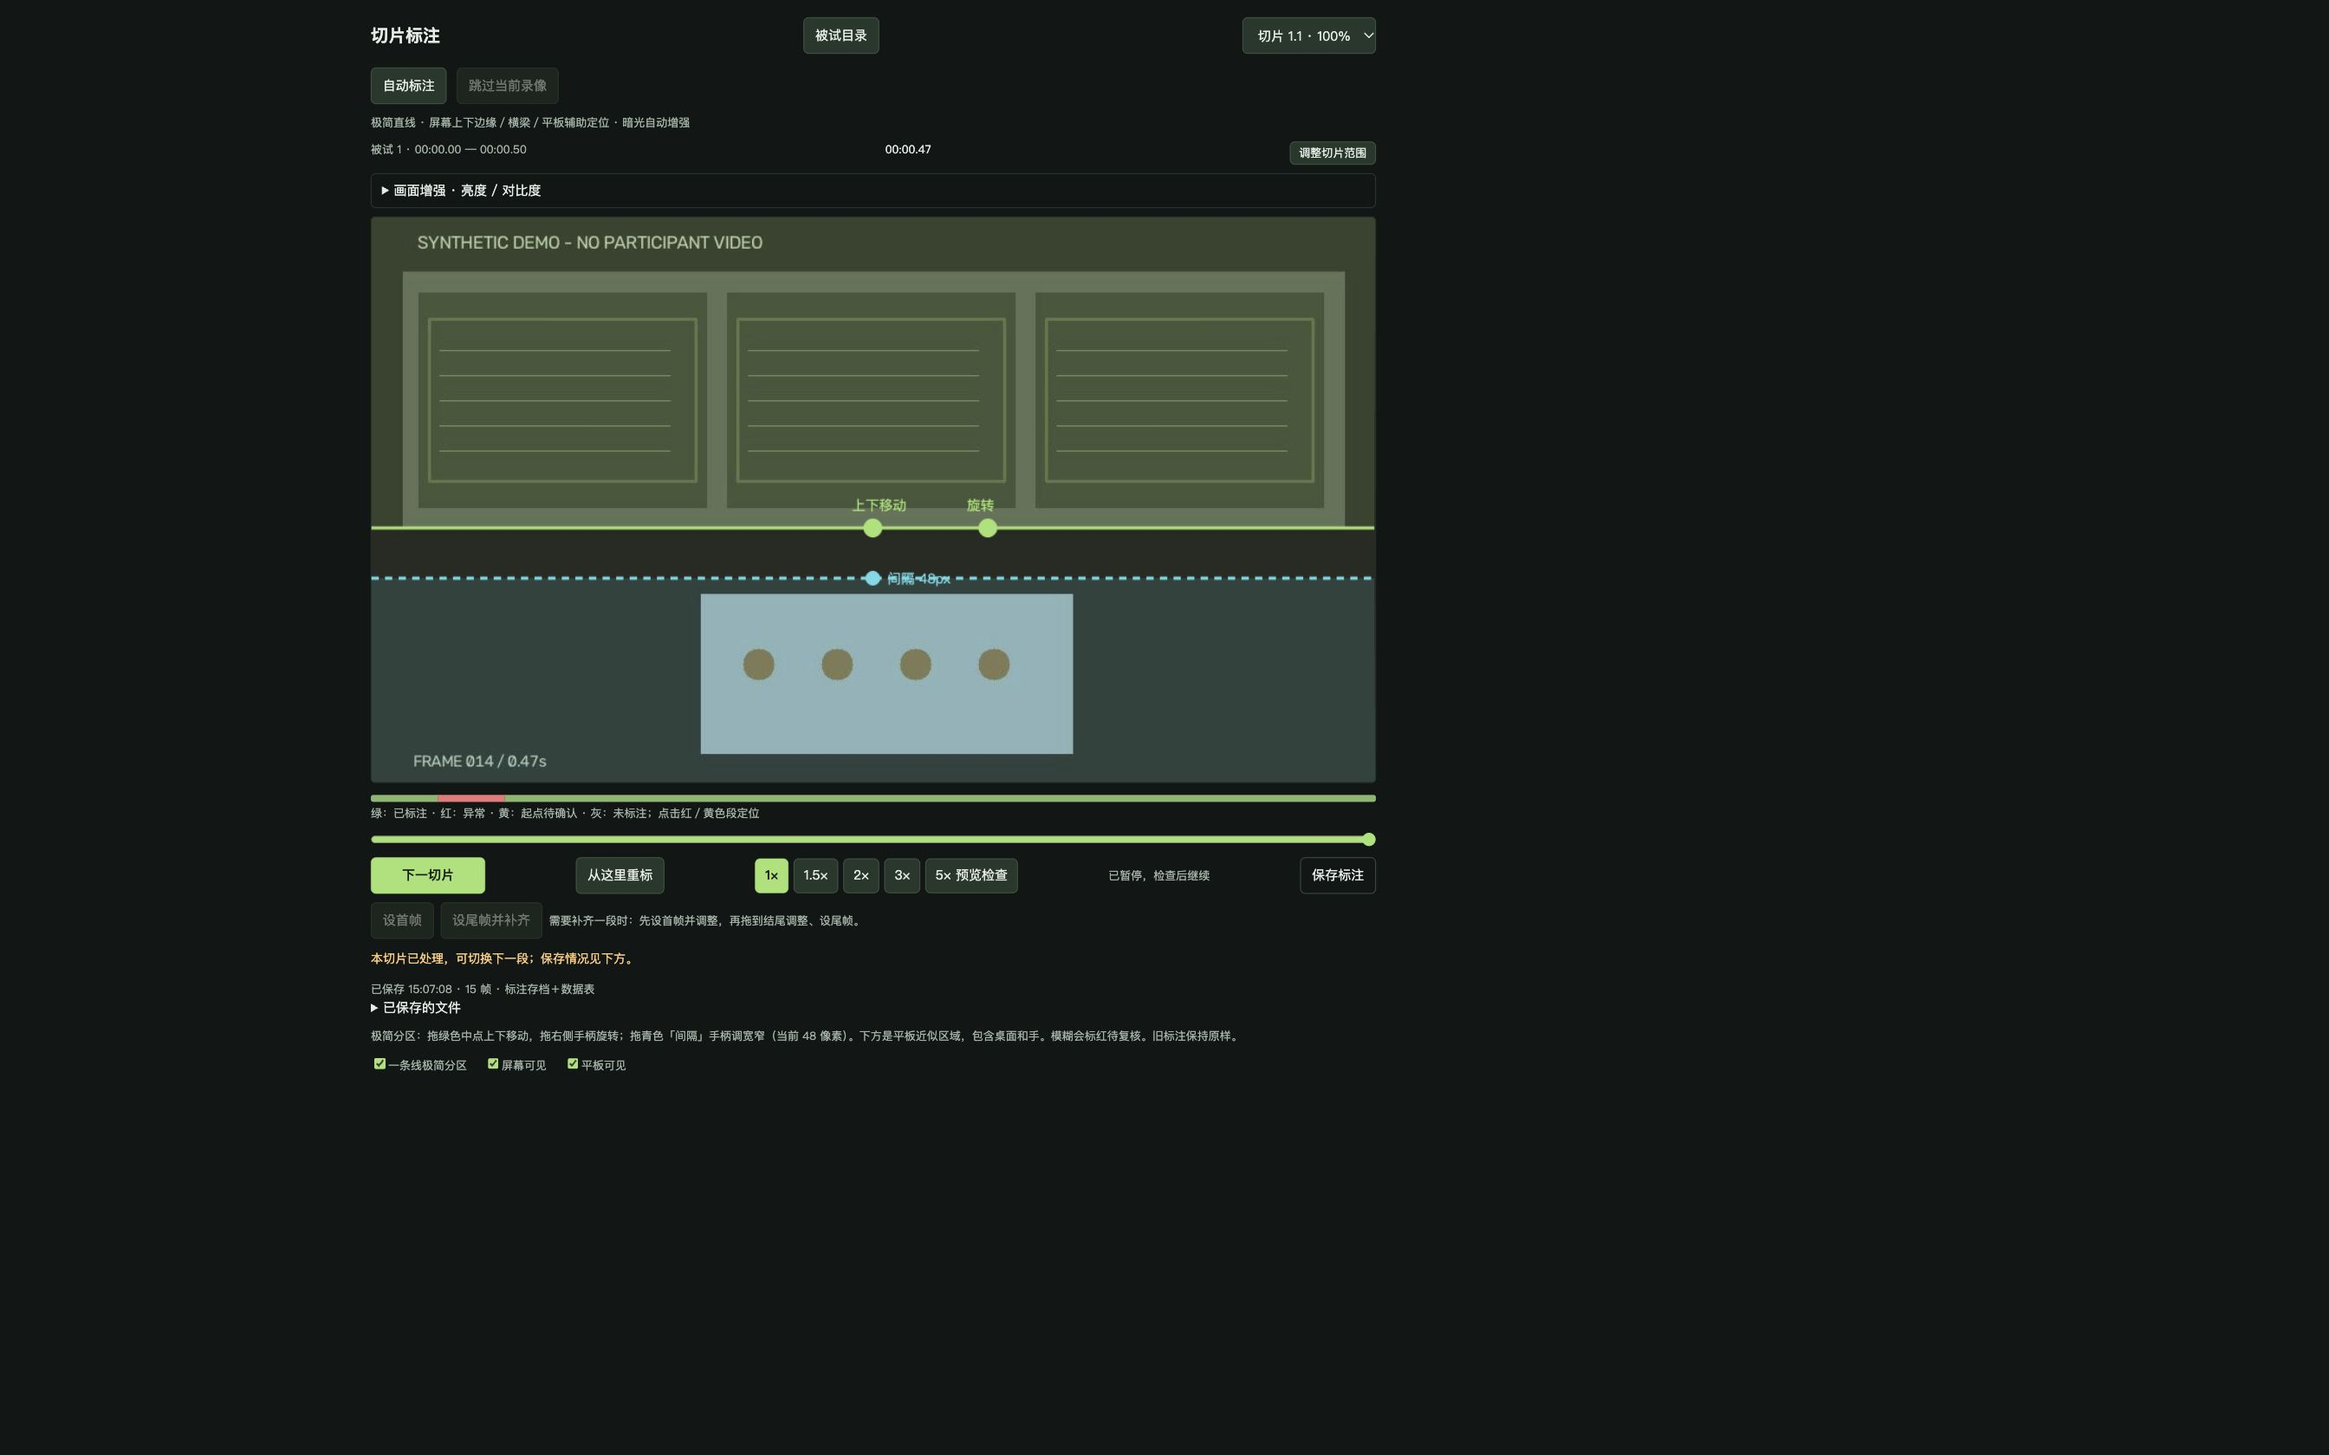
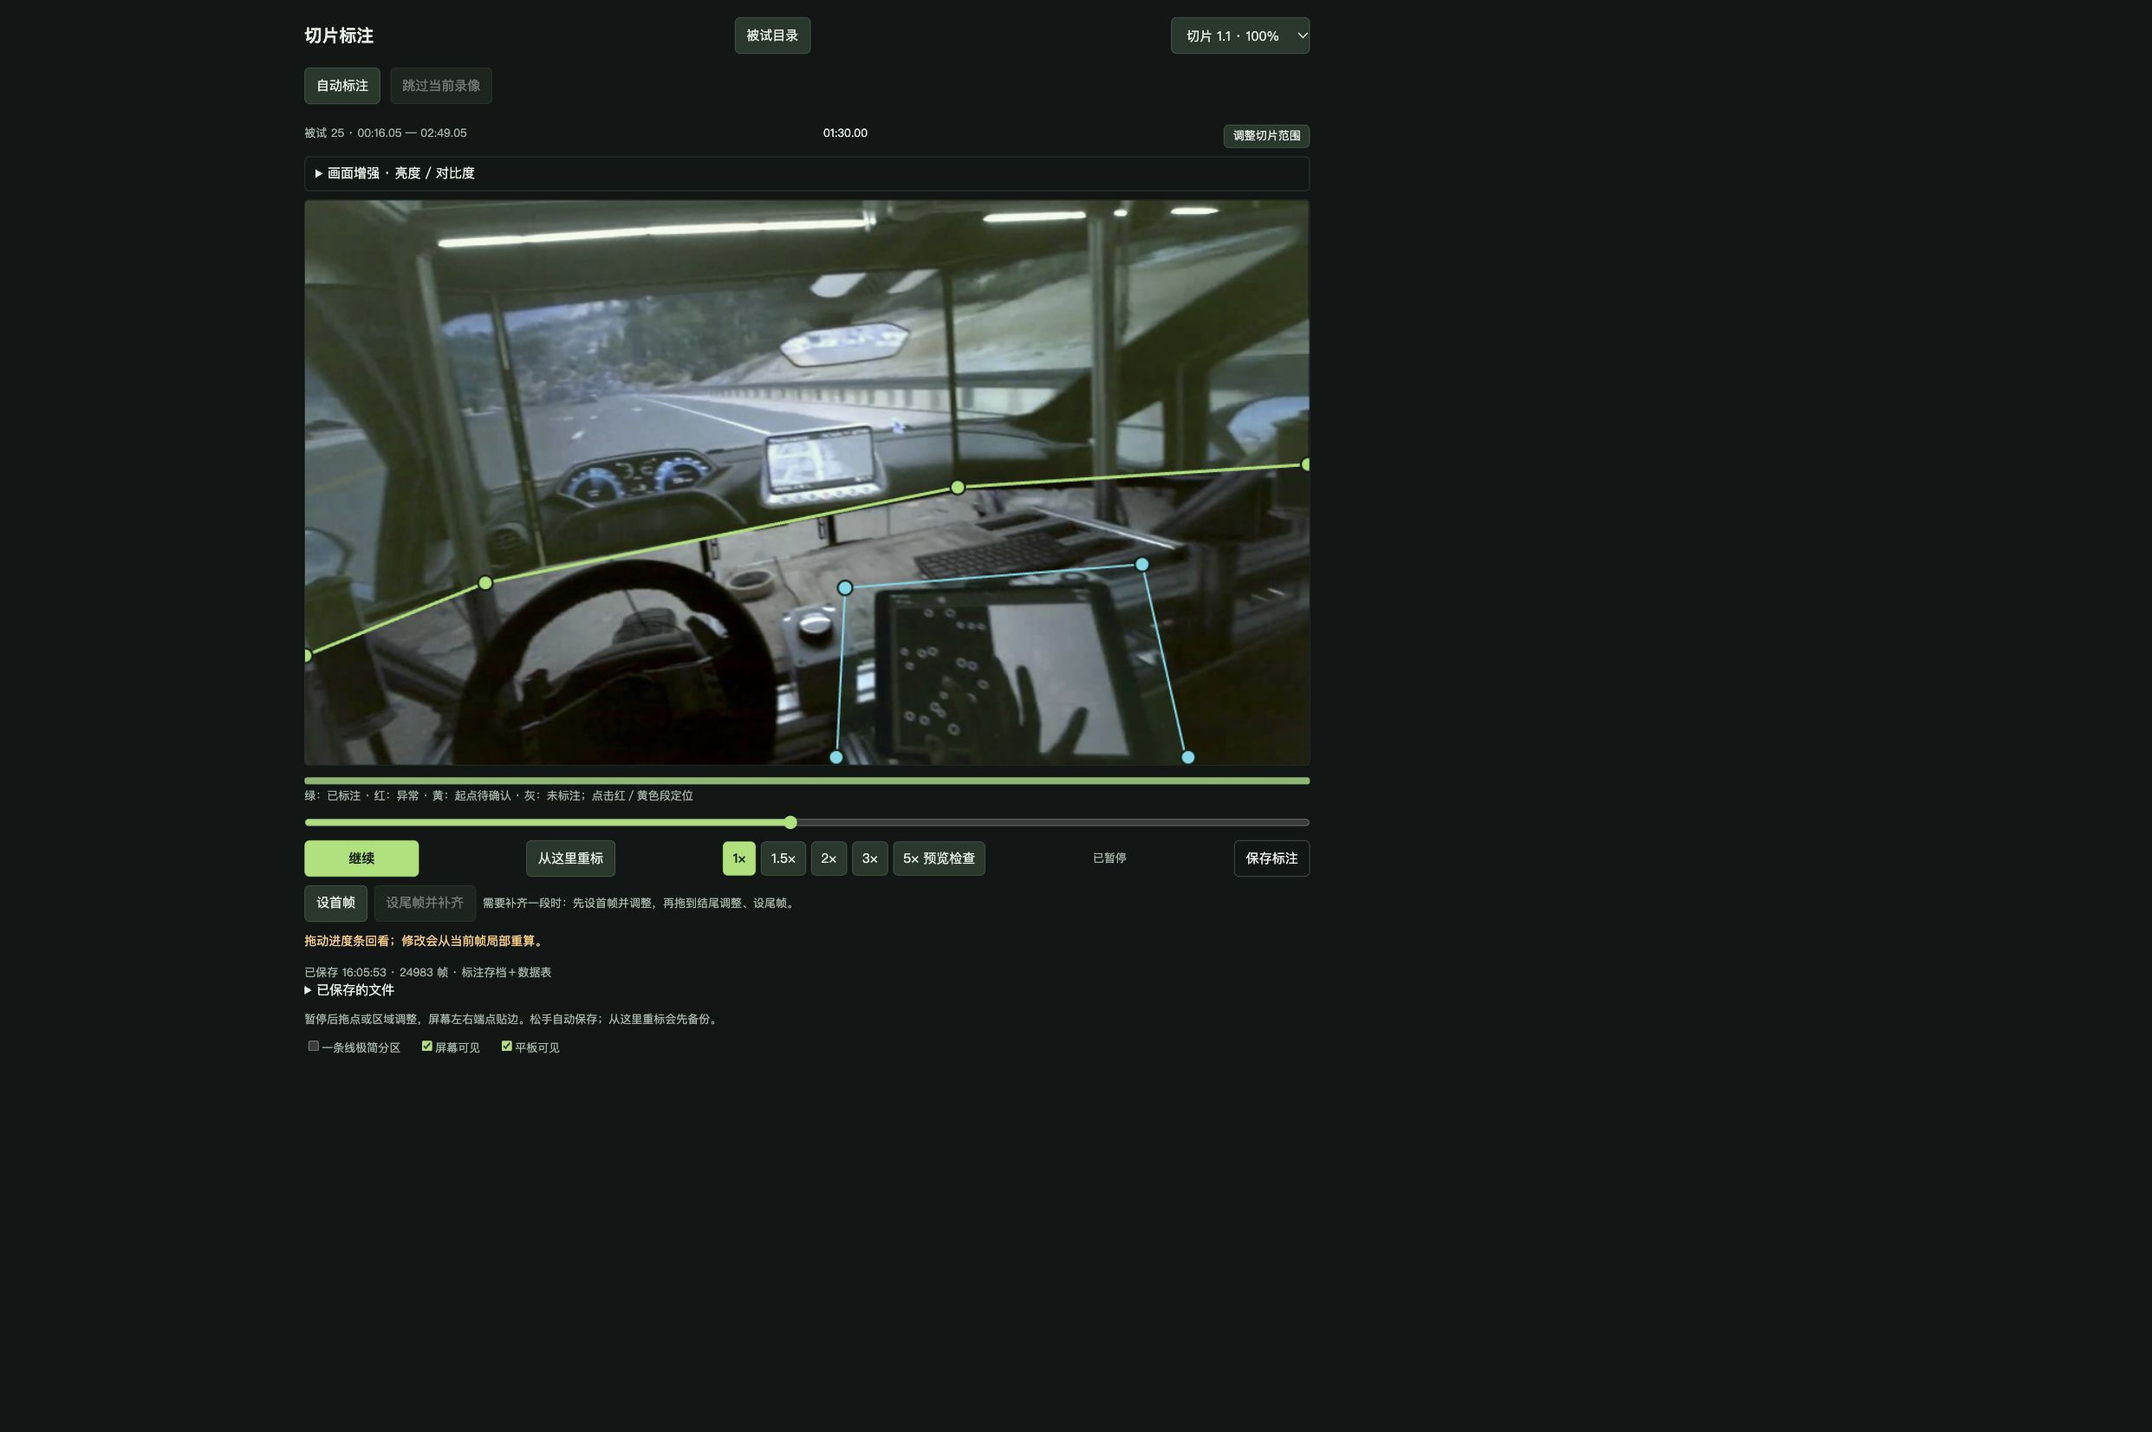
Use real research footage in AOI project screenshots

Changed region(s): [[0.124, 0.0, 0.6202, 0.7405], [0.3721, 0.7096, 0.5272, 0.7405], [0.3411, 0.0, 0.3721, 0.0309]]

diff --git a/index.html b/index.html
@@ -1,1 +1,1 @@
-<!DOCTYPE html><html lang="zh-CN"><head><meta charset="utf-8"><meta name="viewport" content="width=device-width,initial-scale=1"><title>眼动 AOI 切片标注工具 · 庞淇文</title><link rel="stylesheet" href="style.css"><style>.case{max-width:960px;margin:50px auto 80px}.case h1{font:600 42px "Songti SC",serif}.case h2{margin-top:44px;font-size:28px}.case p,.case li{color:#58665b;font-size:15px}figure{margin:30px 0}figure img{width:100%;border:1px solid #d6ddd0;border-radius:8px}figcaption{font-size:12px;color:#68746b;margin-top:8px}.case-table{border-collapse:collapse;width:100%;font-size:13px}.case-table td,.case-table th{border-bottom:1px solid #d6ddd0;padding:12px;text-align:left}code{font-size:13px;background:#e1e8db;padding:2px 5px}@media(max-width:650px){.case h1{font-size:30px}}</style></head><body><div class="shell"><header><a class="brand" href="https://github.com/capybarra1">庞淇文<span>PROJECT CASE</span></a><nav><a href="https://github.com/capybarra1/eye-tracking-aoi">项目仓库 ↗</a><a href="https://github.com/capybarra1">GitHub 主页 ↗</a></nav></header><main class="case"><h1>眼动 AOI 切片标注工具</h1><div class="note">支持动态区域跟踪、人工关键帧修复、切片调整和标注导出。</div><h2>项目概览</h2><p>头戴式眼动视频中的屏幕和平板会随视角移动，反光、遮挡、模糊和旋转增加了逐帧标注的工作量。我围绕实际研究任务开发本地 AOI 标注工具，将切片处理、区域跟踪、异常复核和数据导出放到同一工作流程中。</p><h2>我的职责</h2><p>我定义切片、区域、关键帧、复核与导出流程，使用 AI 编程工具辅助实现，并根据实际标注中的失跟、旋转、缓存和切片边界问题持续迭代。最近版本加入直线分区、首尾关键帧修复、被试目录与进度、切片范围调整、存档和数据表导出。</p><ul><li>将标注任务拆为切片，保留当前进度、区域状态和异常段，支持中断后继续处理。</li><li>设计人工首尾关键帧修复与保存前预览，缩小需要重新标注的范围。</li><li>支持切片起止调整、版本备份与范围导出，保持修改记录可核对。</li><li>管理跨录像处理与缓存上限，减少预处理对本地资源的占用。</li></ul><figure><img src="assets/aoi-annotation.jpg" alt="AOI 标注界面：合成视频上的跟踪与时间轴"><figcaption>AOI 标注界面：合成视频上的跟踪与时间轴</figcaption></figure><h2>标注与复核流程</h2><p>切片时间与起始区域 → 本地跟踪 → 异常标记 → 人工关键帧修复 → 范围保存与版本备份 → 导出核对。</p><figure><img src="assets/aoi-flow.svg" alt="标注、修复与导出流程"><figcaption>标注、修复与导出流程</figcaption></figure><h2>关键设计与迭代</h2><p><strong>区分处理进度和确认状态。</strong> 时间轴保留异常段、未确认起点和缺失切片，复核人员可以定位需要介入的位置，避免计算结束后直接使用错误区域。</p><p><strong>局部修复保留既有工作。</strong> 首尾关键帧先生成草稿和预览，保存前备份；修复范围外的标注和人工关键帧保留，减少重复操作。</p><p><strong>切片范围可调整。</strong> 标注中发现边界不合适时，可预览整段录像并修改起止。移出范围的记录保留在本地，当前导出按新范围计算。</p><figure><img src="assets/aoi-timing.jpg" alt="切片起止调整与逐帧预览"><figcaption>切片起止调整与逐帧预览</figcaption></figure><p><strong>区域简化与统计口径同步。</strong> 直线分区适用于快速区分屏幕和下方近似区域。下方可能包含桌面与手，使用这类标注时需按对应 AOI 定义解释指标。</p><h2>项目交付与验证</h2><p>交付本地标注程序、合成视频演示、标注存档与数据表导出入口。63 项选定检查通过，覆盖暂停恢复、逐帧预览、直线几何、切片时间、人工关键帧和缓存；合成场景下完成切片跟踪、保存与范围编辑检查。</p><h2>演示与运行</h2><p>截图由实际标注界面运行生成，背景为程序绘制的屏幕和平板示意。演示使用合成视频，原始研究录像、参与者资料和眼动数据不包含在仓库中。</p><p>CPU/OpenCV 核心流程可本地运行，可选学习模型与预处理默认关闭。真实视频精度、学习模型恢复和跨录像批量效果需在对应研究条件下评估。</p><p><a href="https://github.com/capybarra1/eye-tracking-aoi/blob/main/docs/quickstart.md">启动说明</a> · <a href="https://github.com/capybarra1/eye-tracking-aoi/blob/main/VERIFICATION.md">验证记录</a></p></main><footer>庞淇文 · eye-tracking-aoi</footer></div></body></html>
+<!DOCTYPE html><html lang="zh-CN"><head><meta charset="utf-8"><meta name="viewport" content="width=device-width,initial-scale=1"><title>眼动 AOI 切片标注工具 · 庞淇文</title><link rel="stylesheet" href="style.css"><style>.case{max-width:960px;margin:50px auto 80px}.case h1{font:600 42px "Songti SC",serif}.case h2{margin-top:44px;font-size:28px}.case p,.case li{color:#58665b;font-size:15px}figure{margin:30px 0}figure img{width:100%;border:1px solid #d6ddd0;border-radius:8px}figcaption{font-size:12px;color:#68746b;margin-top:8px}.case-table{border-collapse:collapse;width:100%;font-size:13px}.case-table td,.case-table th{border-bottom:1px solid #d6ddd0;padding:12px;text-align:left}code{font-size:13px;background:#e1e8db;padding:2px 5px}@media(max-width:650px){.case h1{font-size:30px}}</style></head><body><div class="shell"><header><a class="brand" href="https://github.com/capybarra1">庞淇文<span>PROJECT CASE</span></a><nav><a href="https://github.com/capybarra1/eye-tracking-aoi">项目仓库 ↗</a><a href="https://github.com/capybarra1">GitHub 主页 ↗</a></nav></header><main class="case"><h1>眼动 AOI 切片标注工具</h1><div class="note">支持动态区域跟踪、人工关键帧修复、切片调整和标注导出。</div><h2>项目概览</h2><p>头戴式眼动视频中的屏幕和平板会随视角移动，反光、遮挡、模糊和旋转增加了逐帧标注的工作量。我围绕实际研究任务开发本地 AOI 标注工具，将切片处理、区域跟踪、异常复核和数据导出放到同一工作流程中。</p><h2>我的职责</h2><p>我定义切片、区域、关键帧、复核与导出流程，使用 AI 编程工具辅助实现，并根据实际标注中的失跟、旋转、缓存和切片边界问题持续迭代。最近版本加入直线分区、首尾关键帧修复、被试目录与进度、切片范围调整、存档和数据表导出。</p><ul><li>将标注任务拆为切片，保留当前进度、区域状态和异常段，支持中断后继续处理。</li><li>设计人工首尾关键帧修复与保存前预览，缩小需要重新标注的范围。</li><li>支持切片起止调整、版本备份与范围导出，保持修改记录可核对。</li><li>管理跨录像处理与缓存上限，减少预处理对本地资源的占用。</li></ul><figure><img src="assets/aoi-annotation.jpg" alt="真实眼动录像的 AOI 标注界面：屏幕边界、平板区域与时间轴"><figcaption>真实眼动录像的 AOI 标注界面：屏幕边界、平板区域与时间轴</figcaption></figure><h2>标注与复核流程</h2><p>切片时间与起始区域 → 本地跟踪 → 异常标记 → 人工关键帧修复 → 范围保存与版本备份 → 导出核对。</p><figure><img src="assets/aoi-flow.svg" alt="标注、修复与导出流程"><figcaption>标注、修复与导出流程</figcaption></figure><h2>关键设计与迭代</h2><p><strong>区分处理进度和确认状态。</strong> 时间轴保留异常段、未确认起点和缺失切片，复核人员可以定位需要介入的位置，避免计算结束后直接使用错误区域。</p><p><strong>局部修复保留既有工作。</strong> 首尾关键帧先生成草稿和预览，保存前备份；修复范围外的标注和人工关键帧保留，减少重复操作。</p><p><strong>切片范围可调整。</strong> 标注中发现边界不合适时，可预览整段录像并修改起止。移出范围的记录保留在本地，当前导出按新范围计算。</p><figure><img src="assets/aoi-timing.jpg" alt="真实录像的切片起止调整与逐帧预览"><figcaption>真实录像的切片起止调整与逐帧预览</figcaption></figure><p><strong>区域简化与统计口径同步。</strong> 直线分区适用于快速区分屏幕和下方近似区域。下方可能包含桌面与手，使用这类标注时需按对应 AOI 定义解释指标。</p><h2>项目交付与验证</h2><p>交付本地标注程序、合成视频演示、标注存档与数据表导出入口。63 项选定检查通过，覆盖暂停恢复、逐帧预览、直线几何、切片时间、人工关键帧和缓存；合成场景下完成切片跟踪、保存与范围编辑检查。</p><h2>演示与运行</h2><p>展示图片取自真实眼动研究录像约 01:30 的一帧，使用已有标注存档在工具中展示屏幕边界、平板区域与切片调整。仓库提供独立的合成视频启动演示；完整原始录像、参与者资料、眼动数据与研究标注存档不包含在公开包中。</p><p>CPU/OpenCV 核心流程可本地运行，可选学习模型与预处理默认关闭。真实视频精度、学习模型恢复和跨录像批量效果需在对应研究条件下评估。</p><p><a href="https://github.com/capybarra1/eye-tracking-aoi/blob/main/docs/quickstart.md">启动说明</a> · <a href="https://github.com/capybarra1/eye-tracking-aoi/blob/main/VERIFICATION.md">验证记录</a></p></main><footer>庞淇文 · eye-tracking-aoi</footer></div></body></html>

diff --git a/README.md b/README.md
@@ -17,7 +17,7 @@
 - 支持切片起止调整、版本备份与范围导出，保持修改记录可核对。
 - 管理跨录像处理与缓存上限，减少预处理对本地资源的占用。
 
-![AOI 标注界面：合成视频上的跟踪与时间轴](assets/aoi-annotation.jpg)
+![真实眼动录像的 AOI 标注界面：屏幕边界、平板区域与时间轴](assets/aoi-annotation.jpg)
 
 ## 标注与复核流程
 
@@ -33,7 +33,7 @@
 
 **切片范围可调整。** 标注中发现边界不合适时，可预览整段录像并修改起止。移出范围的记录保留在本地，当前导出按新范围计算。
 
-![切片起止调整与逐帧预览](assets/aoi-timing.jpg)
+![真实录像的切片起止调整与逐帧预览](assets/aoi-timing.jpg)
 
 **区域简化与统计口径同步。** 直线分区适用于快速区分屏幕和下方近似区域。下方可能包含桌面与手，使用这类标注时需按对应 AOI 定义解释指标。
 
@@ -43,7 +43,7 @@
 
 ## 演示与运行
 
-截图由实际标注界面运行生成，背景为程序绘制的屏幕和平板示意。演示使用合成视频，原始研究录像、参与者资料和眼动数据不包含在仓库中。
+展示图片取自真实眼动研究录像约 01:30 的一帧，使用已有标注存档在工具中展示屏幕边界、平板区域与切片调整。仓库提供独立的合成视频启动演示；完整原始录像、参与者资料、眼动数据与研究标注存档不包含在公开包中。
 
 CPU/OpenCV 核心流程可本地运行，可选学习模型与预处理默认关闭。真实视频精度、学习模型恢复和跨录像批量效果需在对应研究条件下评估。
 

diff --git a/VERIFICATION.md b/VERIFICATION.md
@@ -1,7 +1,9 @@
 # 公开材料与验证范围
 
-日期：2026-10-07。本项目图片来自实际运行的公开副本，使用合成数据。没有真实参与者、原始用户反馈、公司配置、内部链接或凭证。
+日期：2026-10-07。两张展示截图使用本机真实眼动研究录像约 01:30 的同一帧，在实际标注界面中加载已有标注存档，分别展示 AOI 区域与切片范围调整。视频画面未替换为生成图或示意图。
 
-63 项选定检查通过；合成场景下完成切片跟踪与保存，查看范围编辑。真实视频精度、可选学习模型与跨录像批量效果未在本次公开包验收。
+公开截图包含实验屏幕、设备及局部手部；不包含人脸、姓名或原始文件路径。完整研究录像、参与者资料、眼动数据与研究标注存档不上传。下载运行的 `demo.py` 仍使用独立合成视频，与展示截图的素材来源不同。
 
-GitHub Pages 托管项目介绍与静态示例。Python 工具需要下载后在本机运行。
+63 项选定检查通过；合成场景下完成切片跟踪与保存、范围编辑检查。真实录像截图验证了素材加载与界面展示，不代表跟踪精度或眼动指标的量化评估。真实视频精度、可选学习模型与跨录像批量效果未在本次公开包验收。
+
+GitHub Pages 托管项目介绍与静态图片。Python 工具需要下载后在本机运行。

diff --git a/docs/quickstart.md b/docs/quickstart.md
@@ -1,8 +1,8 @@
 # 眼动 AOI 切片标注工具
 
-本地动态区域跟踪、人工关键帧修复、切片范围调整与导出工具。公开代码来自最近使用的标注工具副本，不包含参与者资料、真实录像、眼动或标注存档。
+本地动态区域跟踪、人工关键帧修复、切片范围调整与导出工具。公开代码来自最近使用的标注工具副本，展示截图使用真实研究录像截帧；运行演示使用独立合成视频，不附完整原始录像、参与者资料、眼动数据或研究标注存档。
 
-![合成场景下的实际标注界面](../assets/aoi-annotation.jpg)
+![真实眼动录像在实际工具中的标注界面](../assets/aoi-annotation.jpg)
 
 ## 合成演示启动
 
